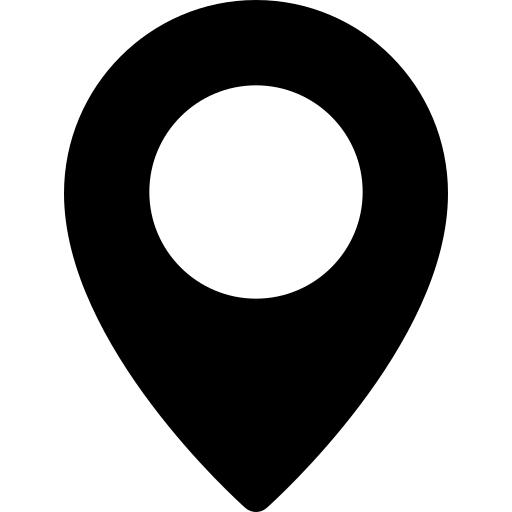
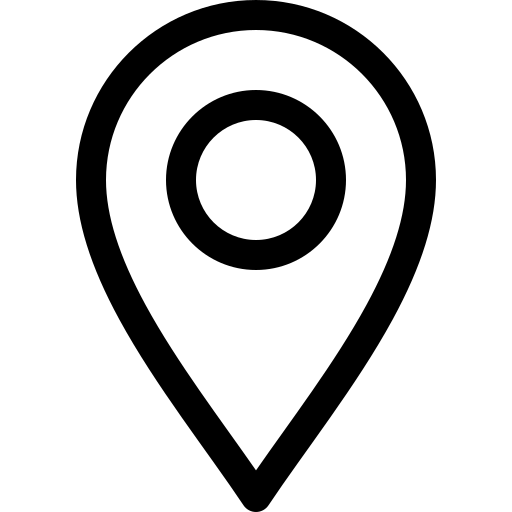
style applied

diff --git a/index.html b/index.html
@@ -3,6 +3,10 @@
     <head>
         <title>About Will Columbia</title>
         <link rel="stylesheet" href="css/index.css">
+        <link rel="stylesheet" href="https://cdnjs.cloudflare.com/ajax/libs/materialize/1.0.0/css/materialize.min.css">
+
+        <!-- Compiled and minified JavaScript -->
+        <script src="https://cdnjs.cloudflare.com/ajax/libs/materialize/1.0.0/js/materialize.min.js"></script>
     </head>
     <body>
         <div class="my-nav">
@@ -11,7 +15,7 @@
                     <h1>William Columbia</h1>
                     <div class="location">
                         <ul>
-                        <li><img src="media/location.png"></li>
+                        <li><img src="media/map.png"></li>
                         <li>Columbia, SC</li>
                         </ul>
                     </div>
@@ -21,29 +25,88 @@
                 <ul>
                     <li><a href="https://linkedin.com/in/williamcolumbia"><img src="media/linkedin.png"></a></li><!--linked in-->
                     <li><a href="https://github.com/willcolumbia"><img src="media/github.png"></a></li><!--github-->
-                    <li><a href = "mailto: willcolumbia@gmail.com"><img src="media/contacts.png"></a></li><!--links for contact info-->
+                    <li><a href = "mailto: willcolumbia@gmail.com"><img src="media/email.png"></a></li><!--links for contact info-->
                 </ul>
             </div>
         </div>
-        <div class="About">
+        <div class="container">
+        <div class="about">
             <h2>About</h2>
-            <p>I am currently a senior Computer Science major at the University of South Carolina looking for employment as a Software Engineer. I will be graduating in May of 2024 with a cumulative GPA of 3.30. </p>
-            <br>
-            <p>I am currently seeking employment as a Software Engineer. I specialize in backend software development with a robust understanding of languages such as C++, Python, Java, Node.js and Django. I am also very proficient in frontend development using languages such as React, HTML, CSS and Javascript. Utilizing these skills I aspire to become a Full Stack Engineer. </p>
-            <br>
-            <p>When I am not programming I love to play sports such as golf, soccer and basketball. I also enjoy activities with my family and friends such as attending sporting events, going bowling, watching movies and so much more.</p>
-        </div>
-        <div class="why-hire">
+            <p>I am a senior Computer Science major at the University of South Carolina.<span class="focus"> I am actively seeking opportunities for employment as a Software Engineer upon my anticipated graduation in May of 2024.</span> With a demonstrated commitment to academic excellence, I am proud to maintain a cumulative GPA of 3.30, reflecting my dedication to mastering the complexities of computer science and software engineering. </p>
+            <p>With a focused specialization in backend software development, I possess a comprehensive understanding of languages such as<span class="focus"> C++, Python, Java, Node.js, and Django</span>. Additionally, I demonstrate proficiency in frontend development utilizing languages such as <span class="focus">HTML, React, CSS, and Javascript</span>. My academic coursework and practical experiences have equipped me with the necessary skills to thrive in both backend and frontend development roles which is why I aspire to become a Full Stack Engineer. </p>
+        <br>
+        <hr>
             <h2>Why Hire Me?</h2>
-            <p>Throughout my life I have always been determined and hard working. In Elementary School gym class, I was one of the only kids that was unable to jump rope. I despised the fact that I could not so when I returned home that day, I immediatly ran outside with a jump rope to learn. I was so determined to be the best rope jumper in my class that I stayed outside until the sun went down and my mother forced me to come in for dinner. While this story may sound silly, I believe it showcases how I developed a determined personality at a young age. When faced with a challenge I do not know how to solve, I will work tirlessly to learn and solve the problem. </p>
-            <p>Along with being hard working and determined I am a natural born leader. All my life, I have played competative sports. No matter the team I am on, I have always been looked at as a leader of the team and in most cases, been named team captain. I am a firm beleiver that a diverse team can bring all sorts of different ideas and that every idea has a place to be implemented. I am the type of leader that does not point fingers and shout orders, but one that will work along side my teammates to assist and guide towards our goal. </p>
+            <p>Throughout my life I have always been determined and hard working. In Elementary School gym class, I was one of the only kids that was unable to jump rope. I despised the fact that I could not so when I returned home that day, I immediately ran outside with a jump rope to learn. I was so determined to be the best rope jumper in my class that I stayed outside until the sun went down and my mother forced me to come in for dinner. While this story may sound silly, I believe it showcases how I developed a determined personality at a young age.</p>
+            <p><span class="focus"> When faced with a challenge I do not know how to solve, I will work tirelessly to learn and solve the problem.</span></p>
+            <p>Along with being hard working and determined I am a natural born leader. All my life, I have played competitive sports. No matter the team I am on, I have always been looked at as a leader of the team and in most cases, been named team captain. I am a firm believer that a diverse team can bring all sorts of different ideas and that every idea has a place to be implemented. </p>
+            <p><span class="focus">I am the type of leader that does not point fingers and shout orders, but one that will work alongside my teammates to assist and guide towards our goal.</span> </p>
+        
         </div>
         <br>
-        <h6>Click to jump to a specific section:</h6>
-        <div class="page-nav">
-            <ul>
-                <li></li>
-            </ul>
+        
+        <div class="projects">
+            <div class="row">
+                <div class="col s12 m6 14">
+                    <div class="card">
+                        <div class="card-image">
+                            <img src="media/logo.png" height="400px">
+                        </div>
+                        <div class="card-content">
+                            <span class="card-title">PitStop Pro App</span>
+                        </div>
+                        <div class="card-action">
+                            <a href="https://capstone-deployment-production.up.railway.app/home/" target="_blank" style="color: darkslategray; margin-left:30px;">Web App Link</a>
+                            <a href="https://github.com/willcolumbia/School-Home-Projects/tree/main/PitStopPro" target="_blank" style="color: darkslategray; ">Repo</a>
+                        </div>
+                    </div>
+                </div>
+            
+            
+                <div class="col s12 m6 14">
+                    <div class="card" >
+                        <div class="card-image">
+                            <img src="media/pegs.jpg" height="400px">
+                        </div>
+                        <div class="card-content">
+                            <span class="card-title">Peg Solitaire Solver</span>
+                        </div>
+                        <div class="card-action">
+                            <a href="https://youtu.be/K5gNXodxMRM" target="_blank" style="color: darkslategray; margin-left:20px;">Demo Video</a>
+                            <a href="https://github.com/willcolumbia/School-Home-Projects/tree/main/PegSolver" target="_blank" style="color: darkslategray;">Repo</a>
+                        </div>
+                    </div>
+                </div>
+                <div class="col s12 m6 14">
+                    <div class="card">
+                        <div class="card-image">
+                            <img src="media/flightbooking.jpg" height="400px">
+                        </div>
+                        <div class="card-content">
+                            <span class="card-title">Flight Booking System</span>
+                        </div>
+                        <div class="card-action" >
+                            <a href="#" target="_blank" style="color: darkslategray; margin-left:20px;">Demo Video</a>
+                            <a href="https://github.com/epadams/247project.git" target="_blank" style="color: darkslategray;">Repo</a>
+                        </div>
+                    </div>
+                </div>
+                <div class="col s12 m6 14">
+                    <div class="card">
+                        <div class="card-image">
+                            <img src="media/Logo.jpg" height="400px">
+                        </div>
+                        <div class="card-content" style="color: darkslategray;">
+                            <span class="card-title">High School Soccer Team Website</span>
+                        </div>
+                        <div class="card-action" >
+                            <a href="#" target="_blank" style="color: darkslategray;">Website Link</a>
+                            <a href="https://github.com/willcolumbia/School-Home-Projects/tree/master/RiversideMen" target="_blank" style="color: darkslategray;">Repo</a>
+                        </div>
+                    </div>
+                </div>
+            </div>
         </div>
+    </div>
     </body>
 </html>

diff --git a/css/index.css b/css/index.css
@@ -1,17 +1,20 @@
-/* body{
-    
-} */
+body{
+    background-color: #252a34;
+    color: white;
+    font-family: -apple-system,BlinkMacSystemFont,"Roboto","Segoe UI","Helvetica Neue","Lucida Grande",Arial,sans-serif;
+}
 .my-nav{
     text-align: center;
 }
 .my-nav h1{
     font-size: 3em;
-    left:10px;
     margin-left: 50px;
+    font-family: -apple-system,BlinkMacSystemFont,"Roboto","Segoe UI","Helvetica Neue","Lucida Grande",Arial,sans-serif;
 }
 .location img{
-    height: 15px;
-    width: 15px;
+    height: 25px;
+    width: 25px;
+    
 }
 .location li{
     display: inline;
@@ -25,4 +28,43 @@
     height: 50px;
     width: 50px;
     margin: 10px;
+    
+}
+.container{
+    width:75%;
+    margin:auto;
+}
+.about{
+    padding: 10px;
+    text-align:left;
+    
+}
+.focus{
+    text-decoration: underline;
+    font-weight: bolder;
+    font-size: large;
+    
+}
+.page-nav{
+    width:75%;
+    margin:auto;
+    text-align:left;
+}
+.projects{
+    color: darkslategray;
+    text-align: center;
+    font-size: large;
+}
+
+.one{
+    height: 400px;
+    width: 400px;
+    border-radius: 5px;
+    box-shadow: 2px 2px 10px  5px rgb(37,37,37);
+}
+.two{
+    height: 400px;
+    width: 400px;
+    border-radius: 5px;
+    box-shadow: 2px 2px 10px  5px rgb(37,37,37);
 }
